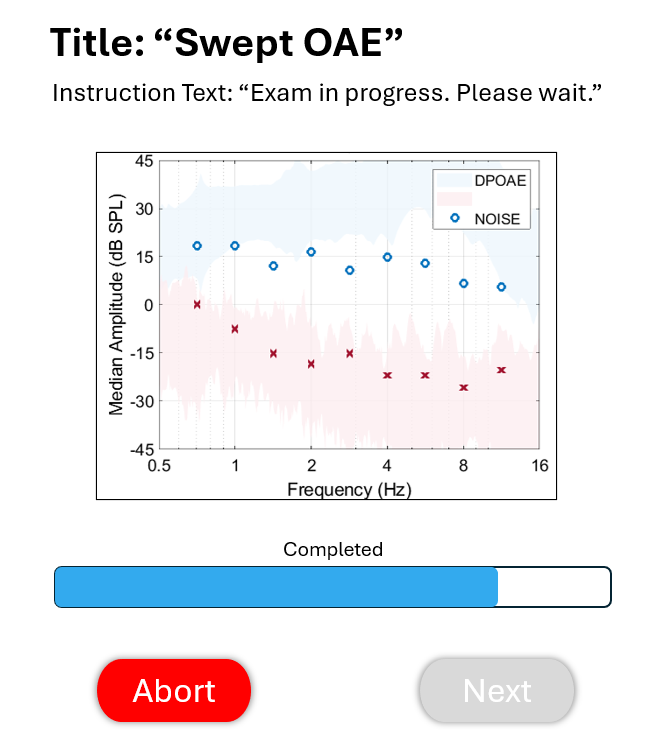
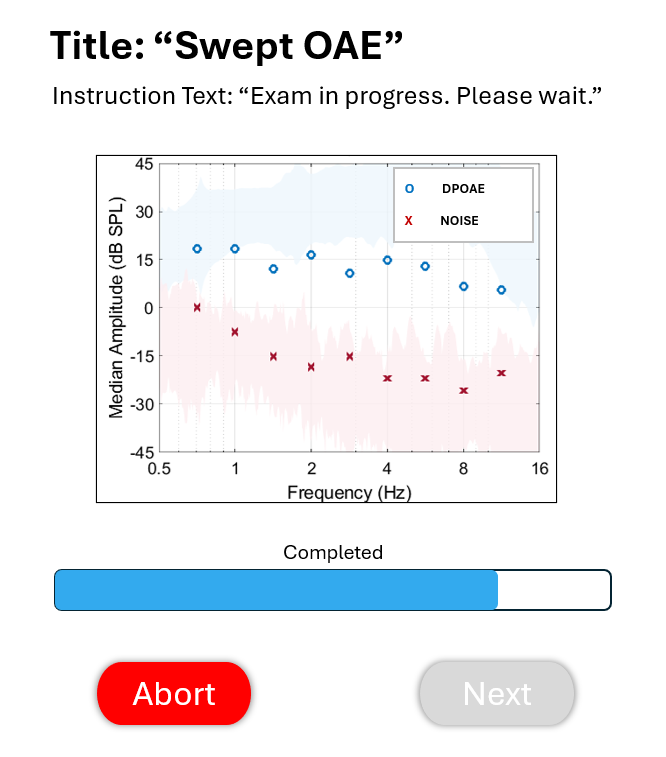
live view updates after Purdue discussion

diff --git a/Specifications/swept-oae/swept-oae.rst b/Specifications/swept-oae/swept-oae.rst
@@ -48,7 +48,7 @@ The GUI should look like the image below with the following features.
 * The GUI should display the parameters from the protocol in a table similar to the one shown below
 * There should be a `Submit` button to initiate the exam. The `Submit` button becomes inactive after initating the exam.
 * After initiating the exam, a progress bar appears and the `Submit` button is replaced with an inactive `Next` button (See screen 2 image below).
-* While the exam progresses, live results are plotted for the individual frequencies specfied in the `firmware specification <https://code.crearecomputing.com/hearingproducts/open-hearing-group/open-hearing-firmware/-/blob/main/Specifications/swept_dpoae.rst?ref_type=heads>`. The DPOAE value is plotted as a blue circle and the noise value is plotted as a red 'x'.
+* While the exam progresses, live results are plotted for the individual frequencies specfied in the `firmware specification <https://code.crearecomputing.com/hearingproducts/open-hearing-group/open-hearing-firmware/-/blob/main/Specifications/swept_dpoae.rst?ref_type=heads>`. The DPOAE value is plotted as a blue circle and the noise value is plotted as a red 'x'. No background plotting of "normative" data is to be included in the current impelemenation.
 * The `Next` button becomes active after the Swept OAE exam concludes.
 
 .. list-table::
